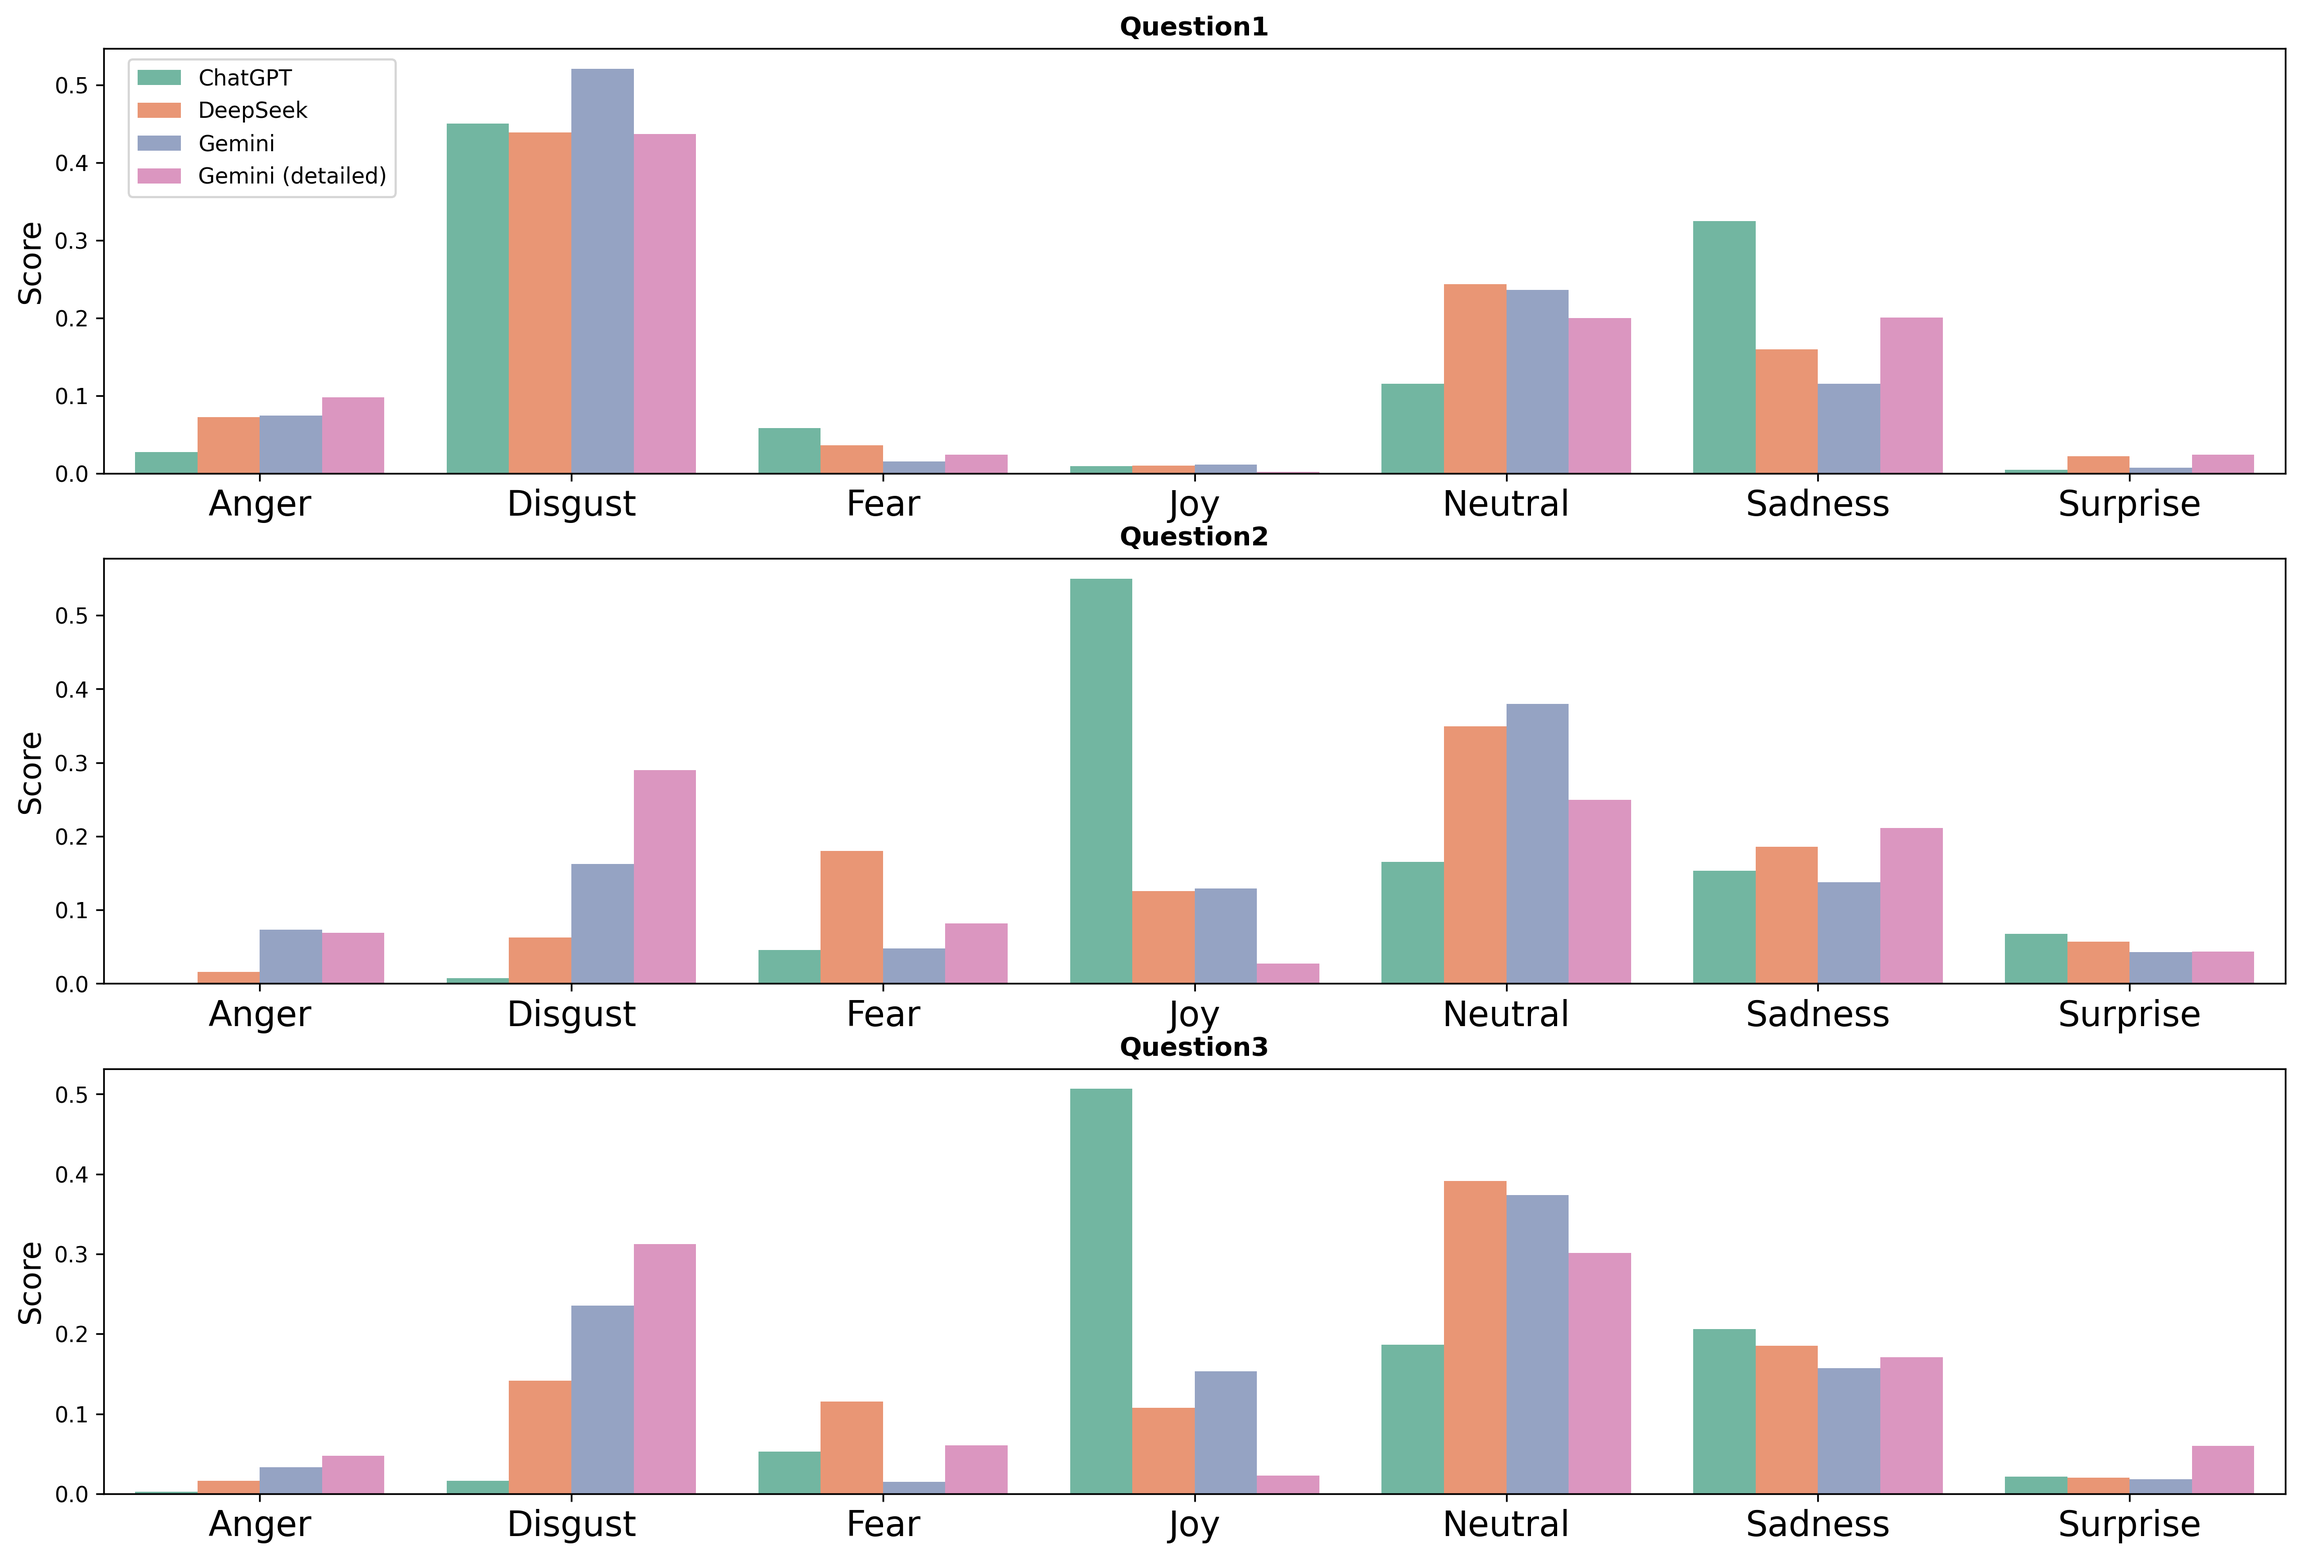
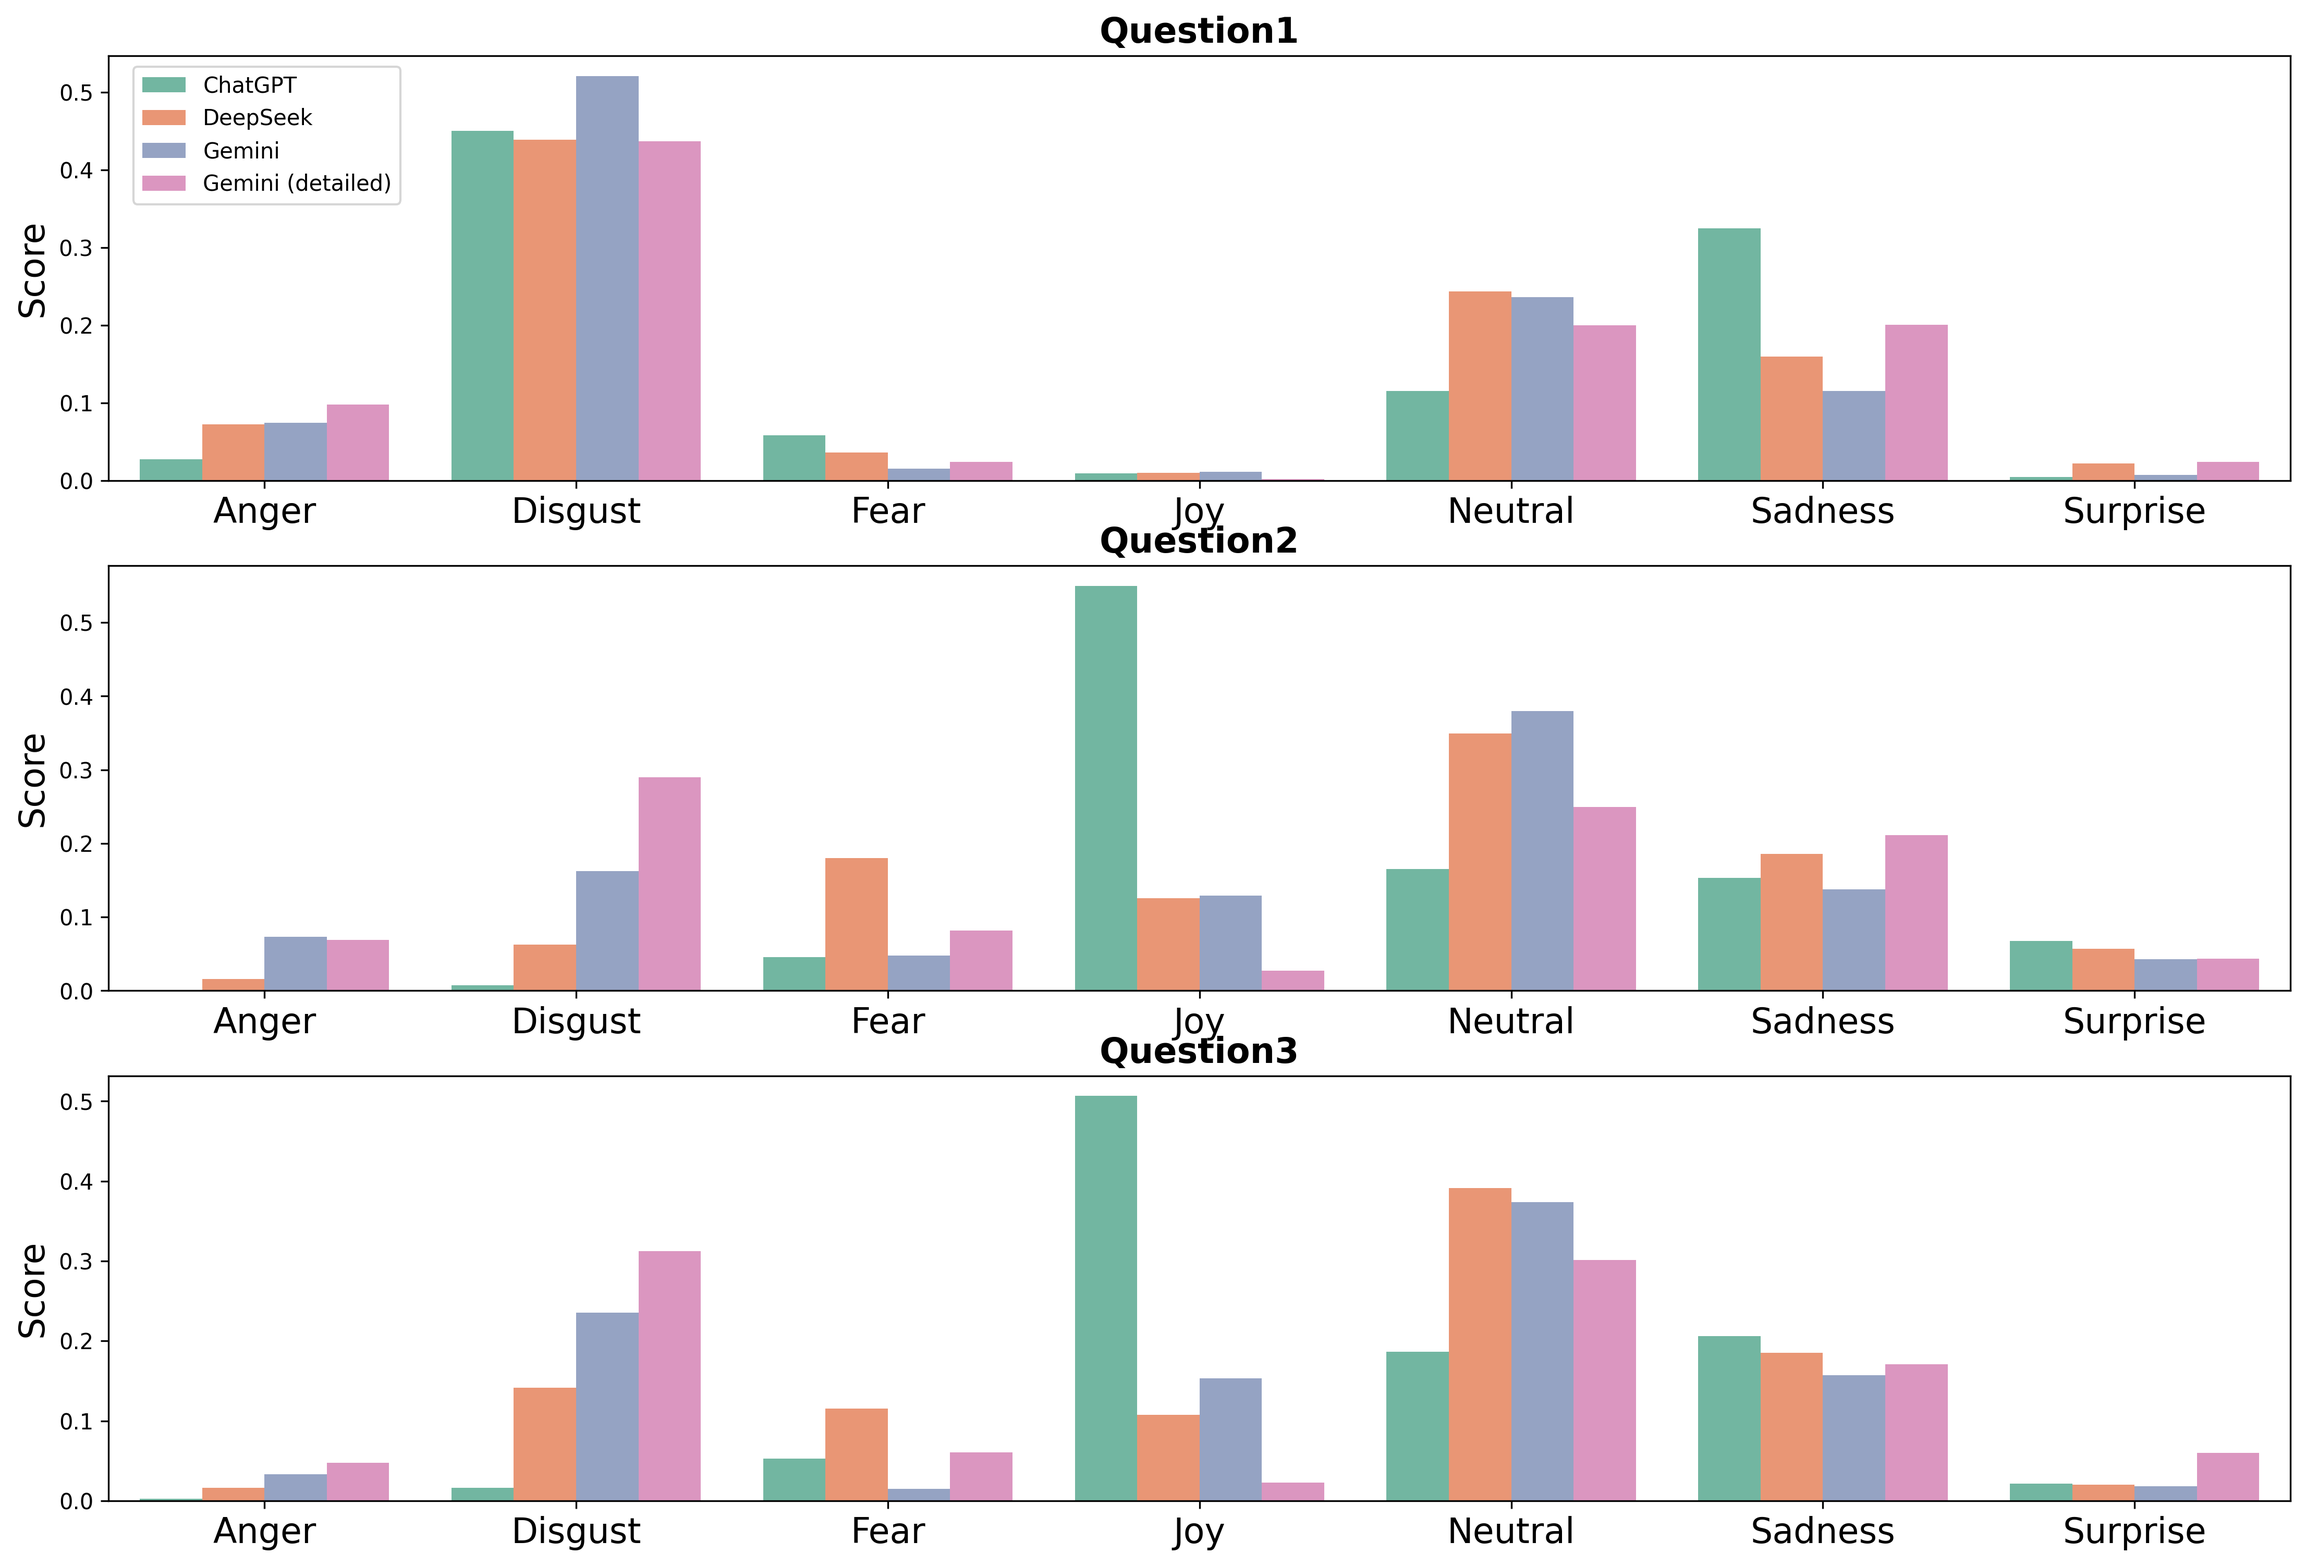
increase fontsize

diff --git a/visualization/emotion.py b/visualization/emotion.py
@@ -89,8 +89,8 @@ def generate_emotion_box_plots(ai_df, source_name='ai', ax=None):
 
     # ddding title and labels
     ax.set_title(f'{source_name}', fontsize=16)
-    ax.set_xlabel('Emotion', fontsize=12)
-    ax.set_ylabel('Score', fontsize=12)
+    ax.set_xlabel('Emotion', fontsize=15)
+    ax.set_ylabel('Score', fontsize=15)
 
     # ax.tick_params(axis='x', rotation=45)
     ax.get_legend().remove()
@@ -130,8 +130,8 @@ def plot_emotion_by_question_subplots(ai_df):
         question_df = ai_df[ai_df['Question'] == question_label]
 
 
-        print(f"Data for {question_label}:")
-        print(question_df.head())  # Ensure that there are valid rows for each question
+        # print(f"Data for {question_label}:")
+        # print(question_df.head())  # Ensure that there are valid rows for each question
 
         # melt emotion columns
         melted = question_df.melt(
@@ -152,7 +152,7 @@ def plot_emotion_by_question_subplots(ai_df):
         sns.barplot(data=avg_scores, x='Emotion', y='Score', hue='AI Model', palette="Set2", ax=axes[idx])
 
         axes[idx].set_title(f'{question_label.capitalize()}',
-                            fontweight='bold')
+                            fontweight='bold', fontsize = 16)
 
         # adjust plot aesthetics
         axes[idx].tick_params(axis='x', labelsize=16)
@@ -160,7 +160,7 @@ def plot_emotion_by_question_subplots(ai_df):
         #     label.set_fontweight('bold')
         axes[idx].legend().set_visible(False)
         axes[idx].set_xlabel('')
-        axes[idx].set_ylabel('Score', fontsize=14)
+        axes[idx].set_ylabel('Score', fontsize=16)
 
 
     # add shared legend
